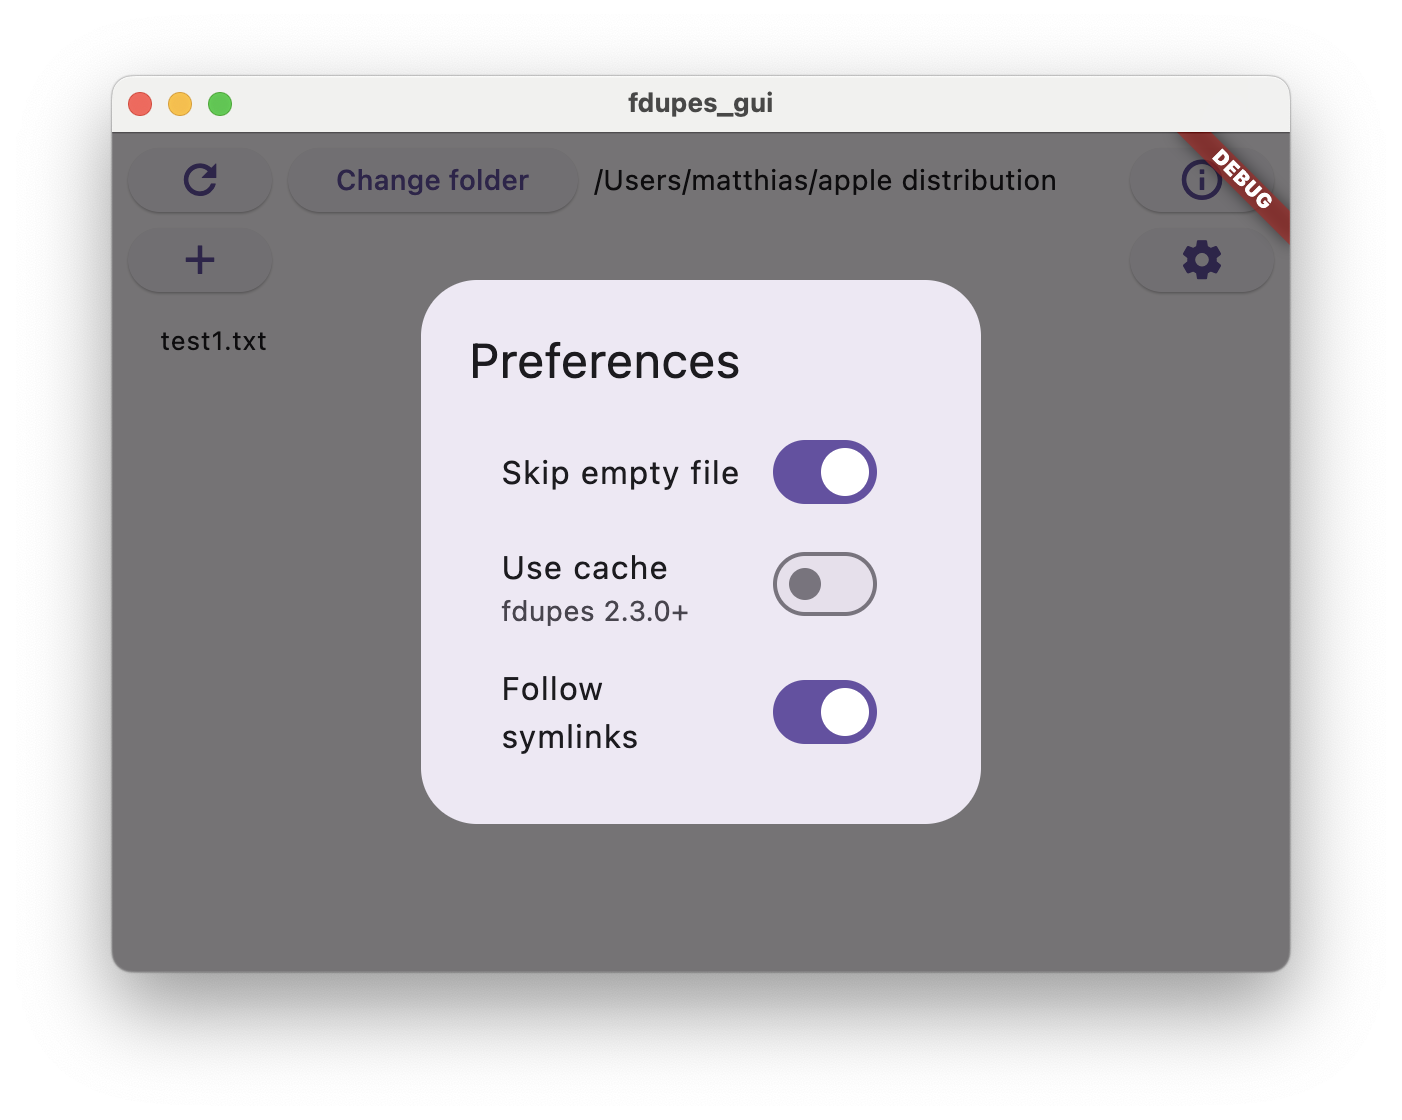
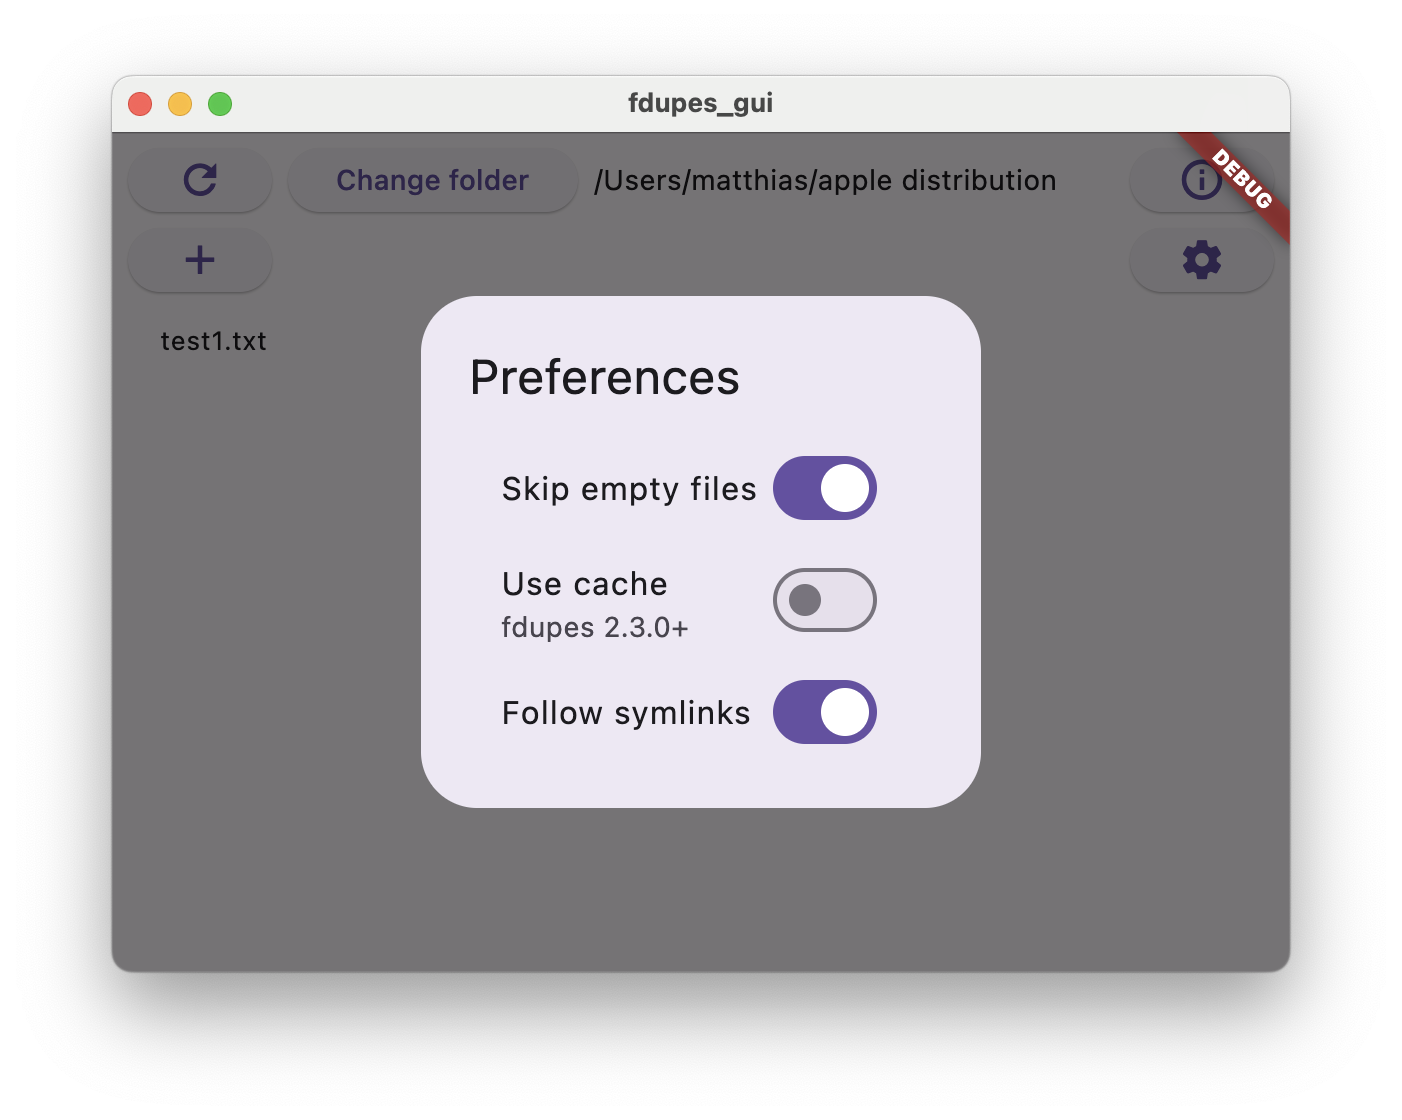
fix pref name wrapping

diff --git a/lib/presentation/prefs_dialog.dart b/lib/presentation/prefs_dialog.dart
@@ -71,7 +71,11 @@ class _PreferencesDialogState extends State<PreferencesDialog> {
                 });
               }),
           SwitchListTile(
-              title: const Text('Follow symlinks'),
+              title: const Text(
+                'Follow symlinks',
+                softWrap: false,
+                overflow: TextOverflow.visible,
+              ),
               value: followSymlinks,
               onChanged: (value) {
                 setState(() {
